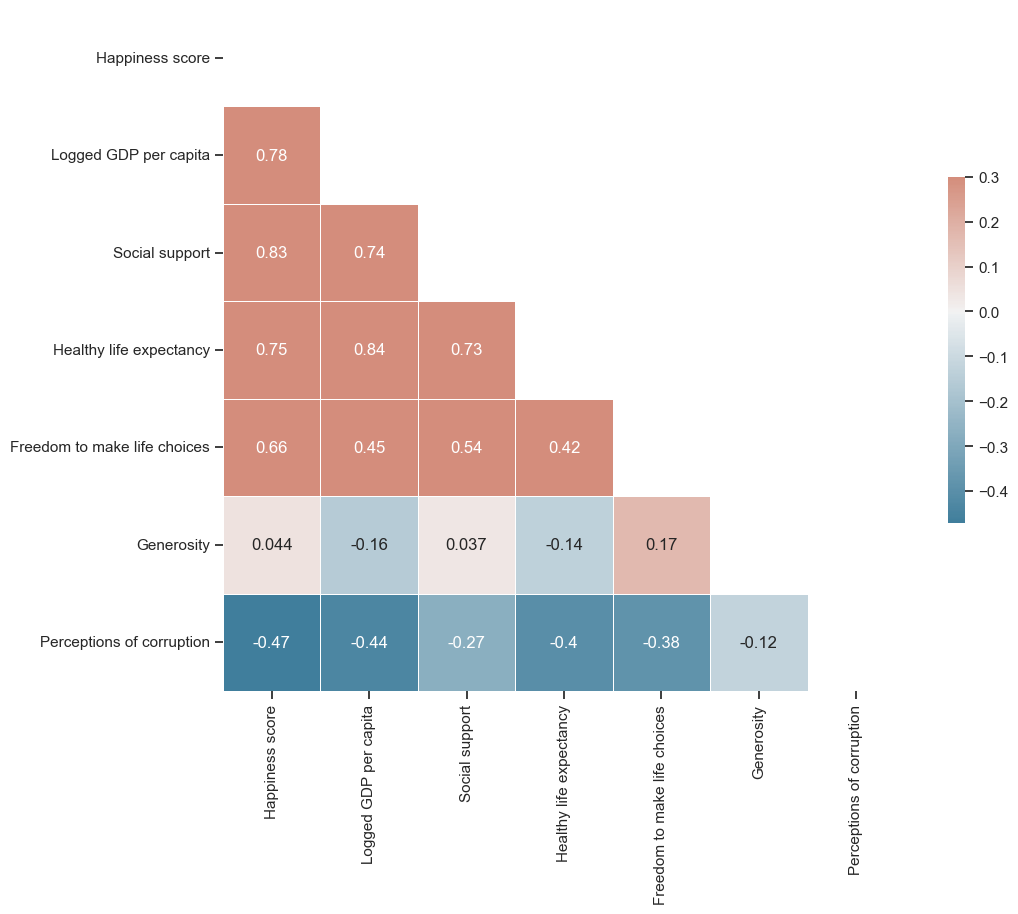
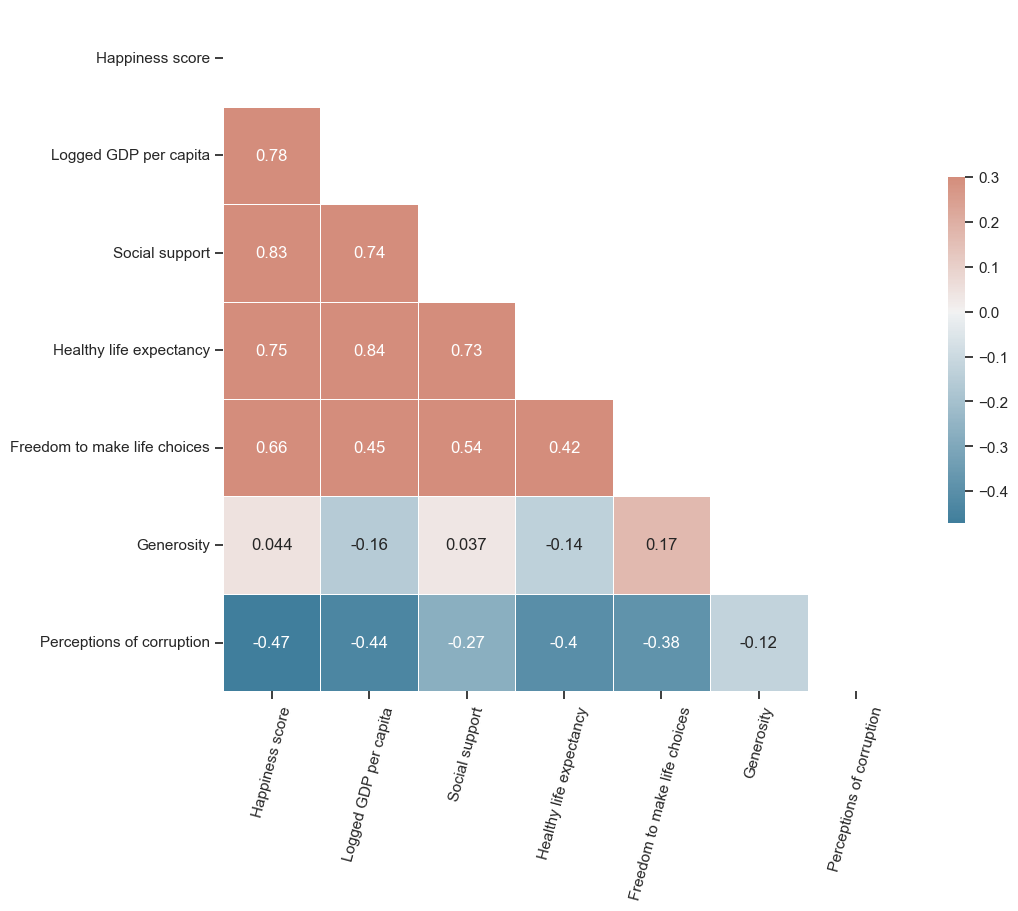
added Table of contents

diff --git a/README.md b/README.md
@@ -837,7 +837,6 @@ sns.pairplot(df)
 
 
 
-    <seaborn.axisgrid.PairGrid at 0x167571cc250>
 
 
 
@@ -856,7 +855,8 @@ corr = df.corr(numeric_only=True)
 mask = np.triu(np.ones_like(corr, dtype=bool))
 cmap = sns.diverging_palette(230, 20, as_cmap=True)
 sns.heatmap(corr, mask=mask, annot=True, cmap=cmap, vmax=.3, center=0,
-            square=True, linewidths=.5, cbar_kws={"shrink": .5});
+            square=True, linewidths=.5, cbar_kws={"shrink": .5})
+plt.tick_params(axis='x', labelrotation=75)
 ```
 
 
@@ -940,7 +940,6 @@ plt.xlabel(None)
 
 
 
-    Text(0.5, 0, '')
 
 
 
@@ -1125,7 +1124,6 @@ plt.barh(feat_imp.index, feat_imp.values)
 
 
 
-    <BarContainer object of 6 artists>
 
 
 
